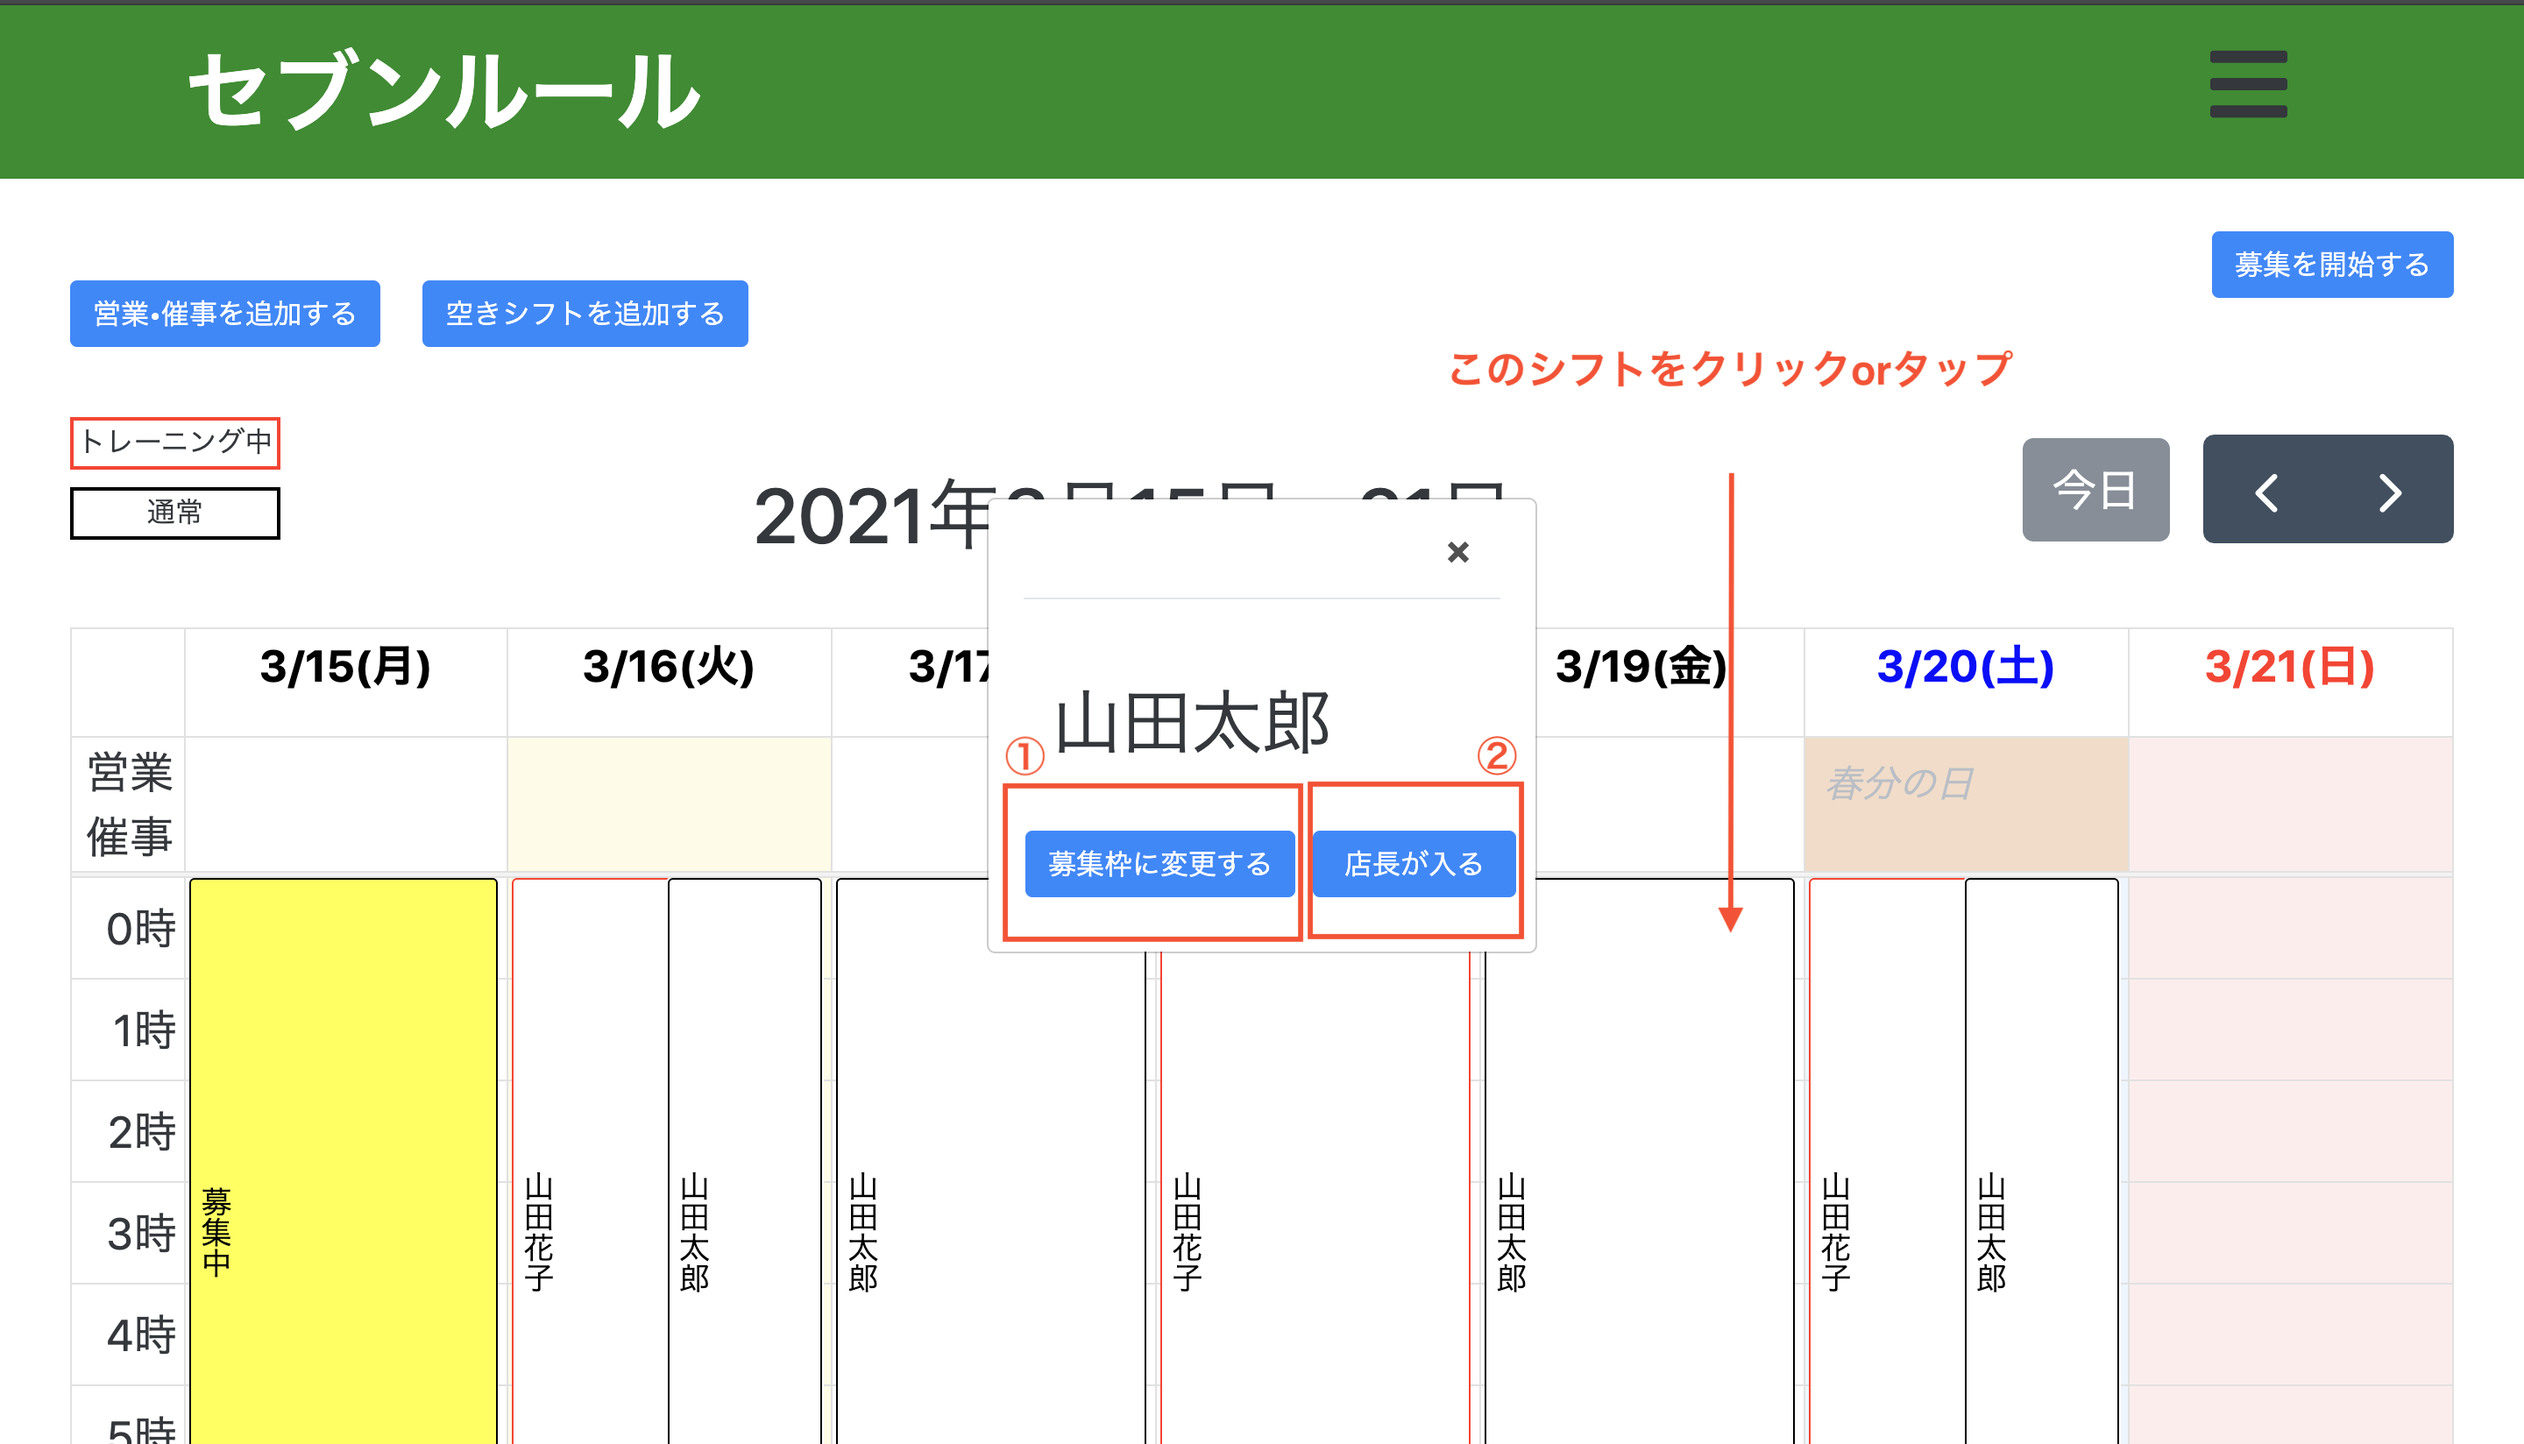
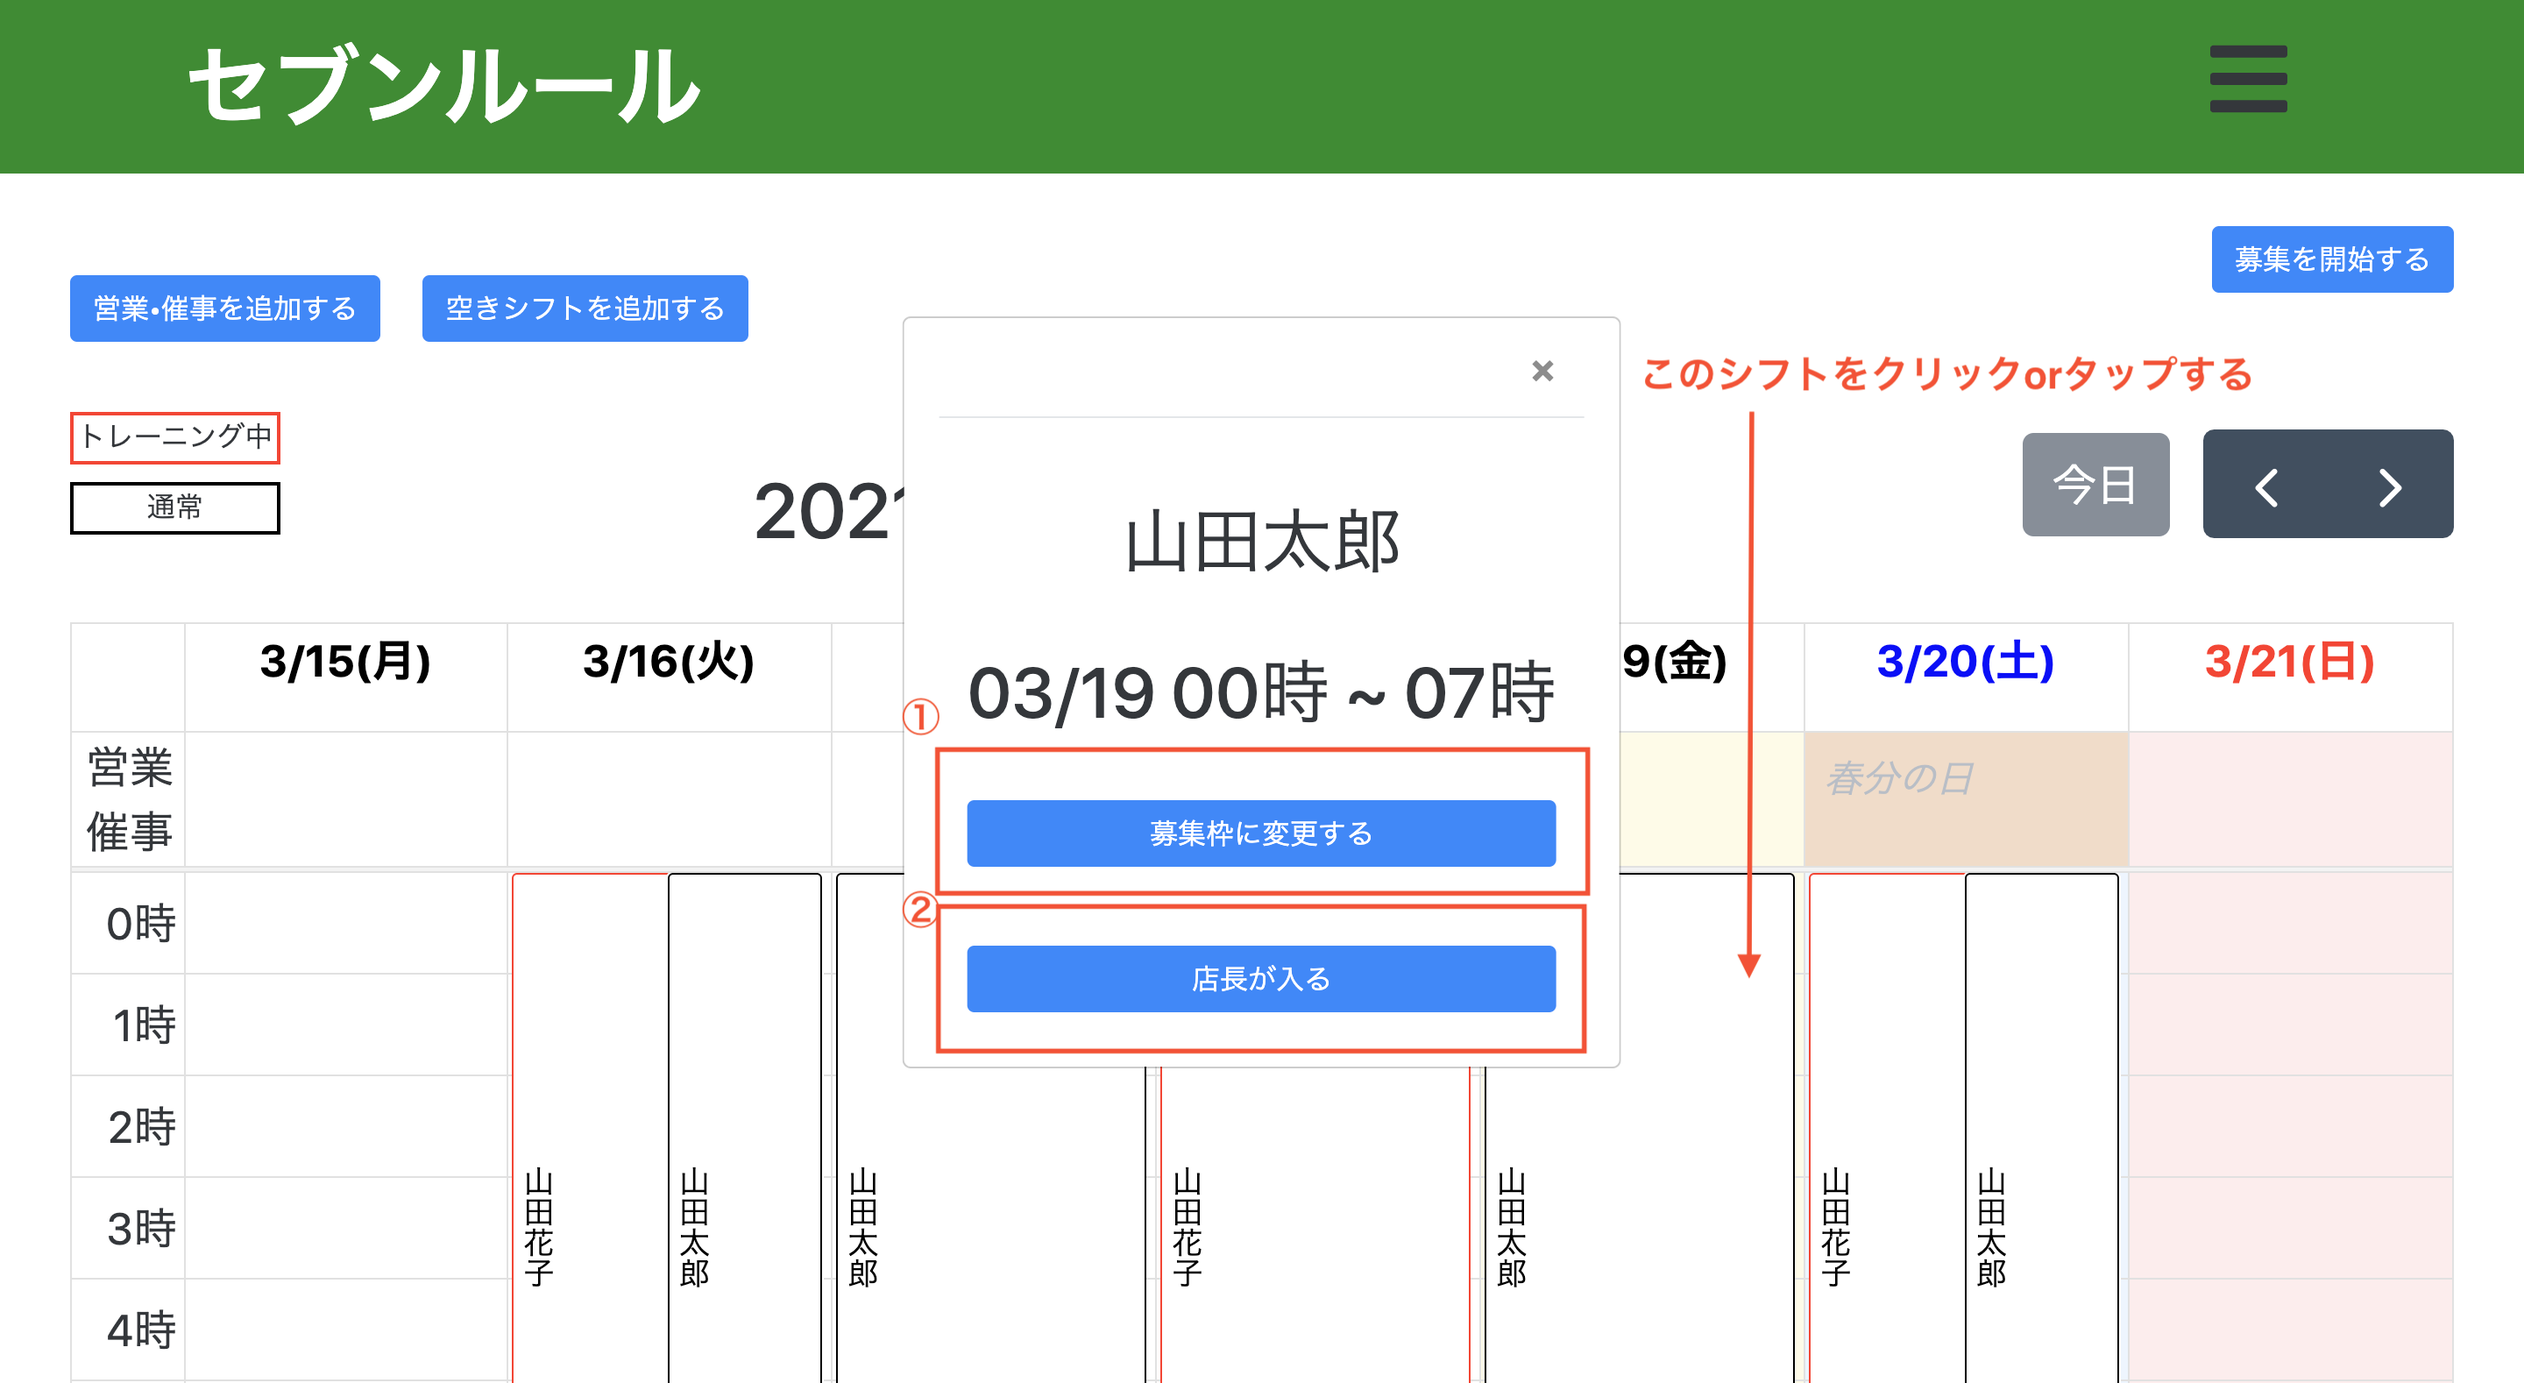
[add] 調整中に時間のカットができる [fix] その他文言やレイアウトを調節

diff --git a/app/javascript/stylesheets/application.scss b/app/javascript/stylesheets/application.scss
@@ -676,3 +676,9 @@ p.warning{
     padding-top: 20px;
     color:#ff0000;
 }
+
+.attention{
+    padding-top: 10px;
+    color:#ff0000;
+    font-size: 20px;
+}

diff --git a/app/controllers/perfect_shifts_controller.rb b/app/controllers/perfect_shifts_controller.rb
@@ -35,6 +35,7 @@ class PerfectShiftsController < ApplicationController
         render plain: render_to_string(partial: 'form_new_shift', layout: false, locals: { event: @event, separations:@separations })
       end
 
+      #空きシフトを追加処理
       def create_shift
         @event = current_master.individual_shifts.new(params_shift)
         change_finishDate
@@ -118,7 +119,7 @@ class PerfectShiftsController < ApplicationController
                 
               # 自分の予定の場合
               elsif @event.staff == current_staff
-                return_html("alert")
+                return_html("shift_info")
               end
             else
               return_html("alert")

diff --git a/app/controllers/temporary_shifts_controller.rb b/app/controllers/temporary_shifts_controller.rb
@@ -65,6 +65,16 @@ class TemporaryShiftsController < ApplicationController
     end
   end
 
+  def time_cut
+    @event = current_master.individual_shifts.find(params[:id])
+
+    # old_start = @event.start
+    # old_finish = @event.finish
+    unless @event.update(params_shift)
+      render partial: "error"
+    end
+  end
+
   #シフト確定する(仮削除対象を削除)
   def perfect
     @events = current_master.individual_shifts.where(Temporary: false)

diff --git a/app/models/staff.rb b/app/models/staff.rb
@@ -5,8 +5,8 @@ class Staff < ApplicationRecord
 
   default_scope -> { order(staff_number: :asc) }
   validates :master_id,    presence: true
-  validates :staff_name,   presence: true
-  validates :staff_number, presence: true
+  validates :staff_name,   presence: true, uniqueness: true
+  validates :staff_number, presence: true, uniqueness: true
 
   has_secure_password
   validates :password,   presence: true, length: { minimum: 4}, allow_nil: true

diff --git a/config/routes.rb b/config/routes.rb
@@ -55,6 +55,7 @@ Rails.application.routes.draw do
     
     member do
       patch :deletable
+      patch :time_cut
     end
   end
 
